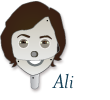
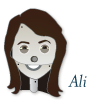
header for new foundation

diff --git a/media/styles/main.css b/media/styles/main.css
@@ -19,6 +19,23 @@ body{
   	font-family: Helvetica Neue, Helvetica, Arial, sans-serif;
 }
 
+#sunlightHeader {
+    background: url(../images/sfapp_bg_header.jpg) center bottom repeat-x;
+    background-color: #b7d2ef;
+    height: 53px;
+    border-bottom: 3px solid #7f8988;
+}
+#sunHeaderInterior { width: 940px; margin: 0 auto; padding: 0 10px; }
+#sunlightHeader a {
+    background: url(../images/sfapp_logo.png) top right no-repeat;
+    display: block;
+    float: right;
+    height: 40px;
+    text-indent: -9999px;
+    width: 128px;
+    margin-top: 5px;
+}
+
 body.home #brandingbar, body.blog #brandingbar, body.people #brandingbar, body.projects #brandingbar, body.events #brandingbar, body.about #brandingbar, body.contact #brandingbar { border-bottom:1px solid #184259;}
 
 blockquote p { font-size: 130%; line-height: 22px; padding-left: 50px; font-style: oblique; color: #919090;}
@@ -310,7 +327,7 @@ div#labsTwitter li { width: 210px; float: left; margin-right: 20px;}
 span.tweetMetaAuthor { text-transform: uppercase; color: #535631; font-size: 110%;}
 p.tweetContent { color: #d8ddd3;}
 
-div.foundationLogo { background: url(../images/foundationLogo.png) top left no-repeat; text-indent: -9999em; display: block; float: left; width: 83px; height: 38px; margin-left: 15px; margin-right: 20px;}
+div.foundationLogo { background: url(../images/sfapp_logo.png) top left no-repeat; text-indent: -9999em; display: block; float: left; width: 128px; height: 40px; margin-left: 15px; margin-right: 20px;}
 div#foundationDetails { padding-top: 8px; color: #a7a9ac;}
 div.adr{ display: block; margin-right: 15px; }
 div.street-address { float: left; margin-right: 15px;}
@@ -666,23 +683,25 @@ div.labsMembers { background: url(../images/gear_bg.png) top left no-repeat; wid
 ul#labsMembers li{ width: 110px; height: 100px; float: left; margin-top: -20px;}
 ul#labsMembers li a { width: 110px; height: 100px; text-indent: -9999em; display: block;}
 ul#labsMembers li#tom { margin: 20px auto 0; float: none; height: 115px;}
-li#aaron a{ background: url(../images/bot_aaron.png) top left no-repeat;}
-li#ali a{ background: url(../images/bot_ali_right.png) top left no-repeat;}
-li#alison a{ background: url(../images/bot_alison.png) top left no-repeat;}
+li#ali a{ background: url(../images/bot_ali.png) top left no-repeat;}
+li#alison a{ background: url(../images/bot_alison_right.png) top left no-repeat;}
+li#dan a{ background: url(../images/bot_dan.png) top left no-repeat;}
+li#daniel a{ background: url(../images/bot_daniel.png) top left no-repeat;}
 li#david a{ background: url(../images/bot_david_left.png) top left no-repeat;}
-li#eric a{ background: url(../images/bot_eric.png) top left no-repeat;}
-li#james a{ background: url(../images/bot_james_left.png) top left no-repeat;}
-li#jeremy a{ background: url(../images/bot_jeremy_right.png) top left no-repeat;}
+li#eric a{ background: url(../images/bot_eric_right.png) top left no-repeat;}
+li#james a{ background: url(../images/bot_james.png) top left no-repeat;}
+li#jeremy a{ background: url(../images/bot_jeremy.png) top left no-repeat;}
 li#josh a{ background: url(../images/bot_josh.png) top left no-repeat;}
 li#kevin a{ background: url(../images/bot_kevin.png) top left no-repeat;}
 li#luigi a{ background: url(../images/bot_luigi_right.png) top left no-repeat;}
-li#tim a{ background: url(../images/bot_tim.png) top left no-repeat;}
+li#tim a{ background: url(../images/bot_tim_right.png) top left no-repeat;}
 li#tom a{ background: url(../images/bot_tom_left.png) 20px top no-repeat;}
-li#kaitlin a{ background: url(../images/bot_kaitlin.png) top left no-repeat;}
-li#ethan a{ background: url(../images/bot_ethan.png) top left no-repeat;}
-li#andrew a{ background: url(../images/bot_andrew_right.png) top left no-repeat;}
-li#caitlin a{ background: url(../images/bot_caitlin.png) top left no-repeat;}
-li#chris a{ background: url(../images/bot_chris_right.png) top left no-repeat;}
+li#kaitlin a{ background: url(../images/bot_kaitlin_right.png) top left no-repeat;}
+li#ethan a{ background: url(../images/bot_ethan_left.png) top left no-repeat;}
+li#andrew a{ background: url(../images/bot_andrew.png) top left no-repeat;}
+li#caitlin a{ background: url(../images/bot_caitlin_right.png) top left no-repeat;}
+li#drew a{ background: url(../images/bot_drew.png) top left no-repeat;}
+li#lee a{ background: url(../images/bot_lee.png) top left no-repeat;}
 
 ul#labsMembers li.memberRight{ margin-top: 30px;}
 

diff --git a/templates/robots.html b/templates/robots.html
@@ -2,22 +2,20 @@
 <div class="module labsMembers">
     <ul id="labsMembers">
         <li id="tom"><a href="{% url blogdor_author 'Tom' %}">Tom</a></li>
-        <li class="memberLeft" id="aaron"><a href="#">Aaron</a></li>
-        <li class="memberRight" id="ali"><a href="{% url blogdor_author 'afelski' %}">Ali</a></li>
-        <li class="memberLeft" id="alison"><a href="{% url blogdor_author 'arowla' %}">Alison</a></li>
-        <li class="memberRight" id="andrew"><a href="#">Andrew</a></li>
-        
-        <li class="memberLeft" id="caitlin"><a href="#">Caitlin</a></li>
-        <li class="memberRight" id="chris"><a href="#">Chris</a></li>
-        
-        <li class="memberLeft" id="eric"><a href="{% url blogdor_author 'klondike' %}">Eric</a></li>
-        <li class="memberRight" id="ethan"><a href="{% url blogdor_author 'ethan' %}">Ethan</a></li>
-        <li class="memberLeft" id="james"><a href="{% url blogdor_author 'james' %}">James</a></li>
-        <li class="memberRight" id="jeremy"><a href="{% url blogdor_author 'jcarbaugh' %}">Jeremy</a></li>
-        
-        <li class="memberLeft" id="kaitlin"><a href="{% url blogdor_author 'klee' %}">Kaitlin</a></li>
-        <li class="memberRight" id="luigi"><a href="{% url blogdor_author 'luigi' %}">Luigi</a></li>
-        <li class="memberLeft" id="tim"><a href="{% url blogdor_author 'timball' %}">Tim</a></li>
+        <li class="memberLeft" id="ali"><a href="{% url blogdor_author 'afelski' %}">Ali</a></li>
+        <li class="memberRight" id="alison"><a href="{% url blogdor_author 'arowla' %}">Alison</a></li>
+        <li class="memberLeft" id="andrew"><a href="#">Andrew</a></li>       
+        <li class="memberRight" id="caitlin"><a href="#">Caitlin</a></li>
+        <li class="memberLeft" id="dan"><a href="#">Dan</a></li>
+        <li class="memberRight" id="daniel"><a href="#">Daniel</a></li>
+        <li class="memberLeft" id="drew"><a href="#">Drew</a></li>
+        <li class="memberRight" id="eric"><a href="{% url blogdor_author 'klondike' %}">Eric</a></li>
+        <li class="memberLeft" id="ethan"><a href="{% url blogdor_author 'ethan' %}">Ethan</a></li>
+        <li class="memberRight" id="james"><a href="{% url blogdor_author 'james' %}">James</a></li>
+        <li class="memberLeft" id="jeremy"><a href="{% url blogdor_author 'jcarbaugh' %}">Jeremy</a></li>
+        <li class="memberRight" id="kaitlin"><a href="{% url blogdor_author 'klee' %}">Kaitlin</a></li>
+        <li class="memberLeft" id="lee"><a href="#">Lee</a></li>
+        <li class="memberRight" id="tim"><a href="{% url blogdor_author 'timball' %}">Tim</a></li>
 	</ul>
 	<div class="clear"></div>
 </div>

diff --git a/templates/base.html b/templates/base.html
@@ -22,6 +22,11 @@
     </head>
     <body class="{% block bodyclass %}home{% endblock %}">
           <!--[if lt IE 7]>  <div style='border: 1px solid #F7941D; background: #FEEFDA; text-align: center; clear: both; height: 75px; position: relative;'>    <div style='position: absolute; right: 3px; top: 3px; font-family: courier new; font-weight: bold;'><a href='#' onclick='javascript:this.parentNode.parentNode.style.display="none"; return false;'><img src='http://www.ie6nomore.com/files/theme/ie6nomore-cornerx.jpg' style='border: none;' alt='Close this notice'/></a></div>    <div style='width: 640px; margin: 0 auto; text-align: left; padding: 0; overflow: hidden; color: black;'>      <div style='width: 75px; float: left;'><img src='http://www.ie6nomore.com/files/theme/ie6nomore-warning.jpg' alt='Warning!'/></div>      <div style='width: 275px; float: left; font-family: Arial, sans-serif;'>        <div style='font-size: 14px; font-weight: bold; margin-top: 12px;'>You are using an outdated browser</div>        <div style='font-size: 12px; margin-top: 6px; line-height: 12px;'>For a better experience using this site, please upgrade to a modern web browser.</div>      </div>      <div style='width: 75px; float: left;'><a href='http://www.firefox.com' target='_blank'><img src='http://www.ie6nomore.com/files/theme/ie6nomore-firefox.jpg' style='border: none;' alt='Get Firefox 3.5'/></a></div>      <div style='width: 75px; float: left;'><a href='http://www.browserforthebetter.com/download.html' target='_blank'><img src='http://www.ie6nomore.com/files/theme/ie6nomore-ie8.jpg' style='border: none;' alt='Get Internet Explorer 8'/></a></div>      <div style='width: 73px; float: left;'><a href='http://www.apple.com/safari/download/' target='_blank'><img src='http://www.ie6nomore.com/files/theme/ie6nomore-safari.jpg' style='border: none;' alt='Get Safari 4'/></a></div>      <div style='float: left;'><a href='http://www.google.com/chrome' target='_blank'><img src='http://www.ie6nomore.com/files/theme/ie6nomore-chrome.jpg' style='border: none;' alt='Get Google Chrome'/></a></div>    </div>  </div>  <![endif]-->
+        <div id="sunlightHeader">
+            <div id="sunHeaderInterior">  
+            <a href="http://sunlightfoundation.com">Sunlight Foundation</a>
+            </div>
+        </div>
         <div id="headerWrapper">
             <div id="headerClouds"></div>
             <div id="pageMain">
